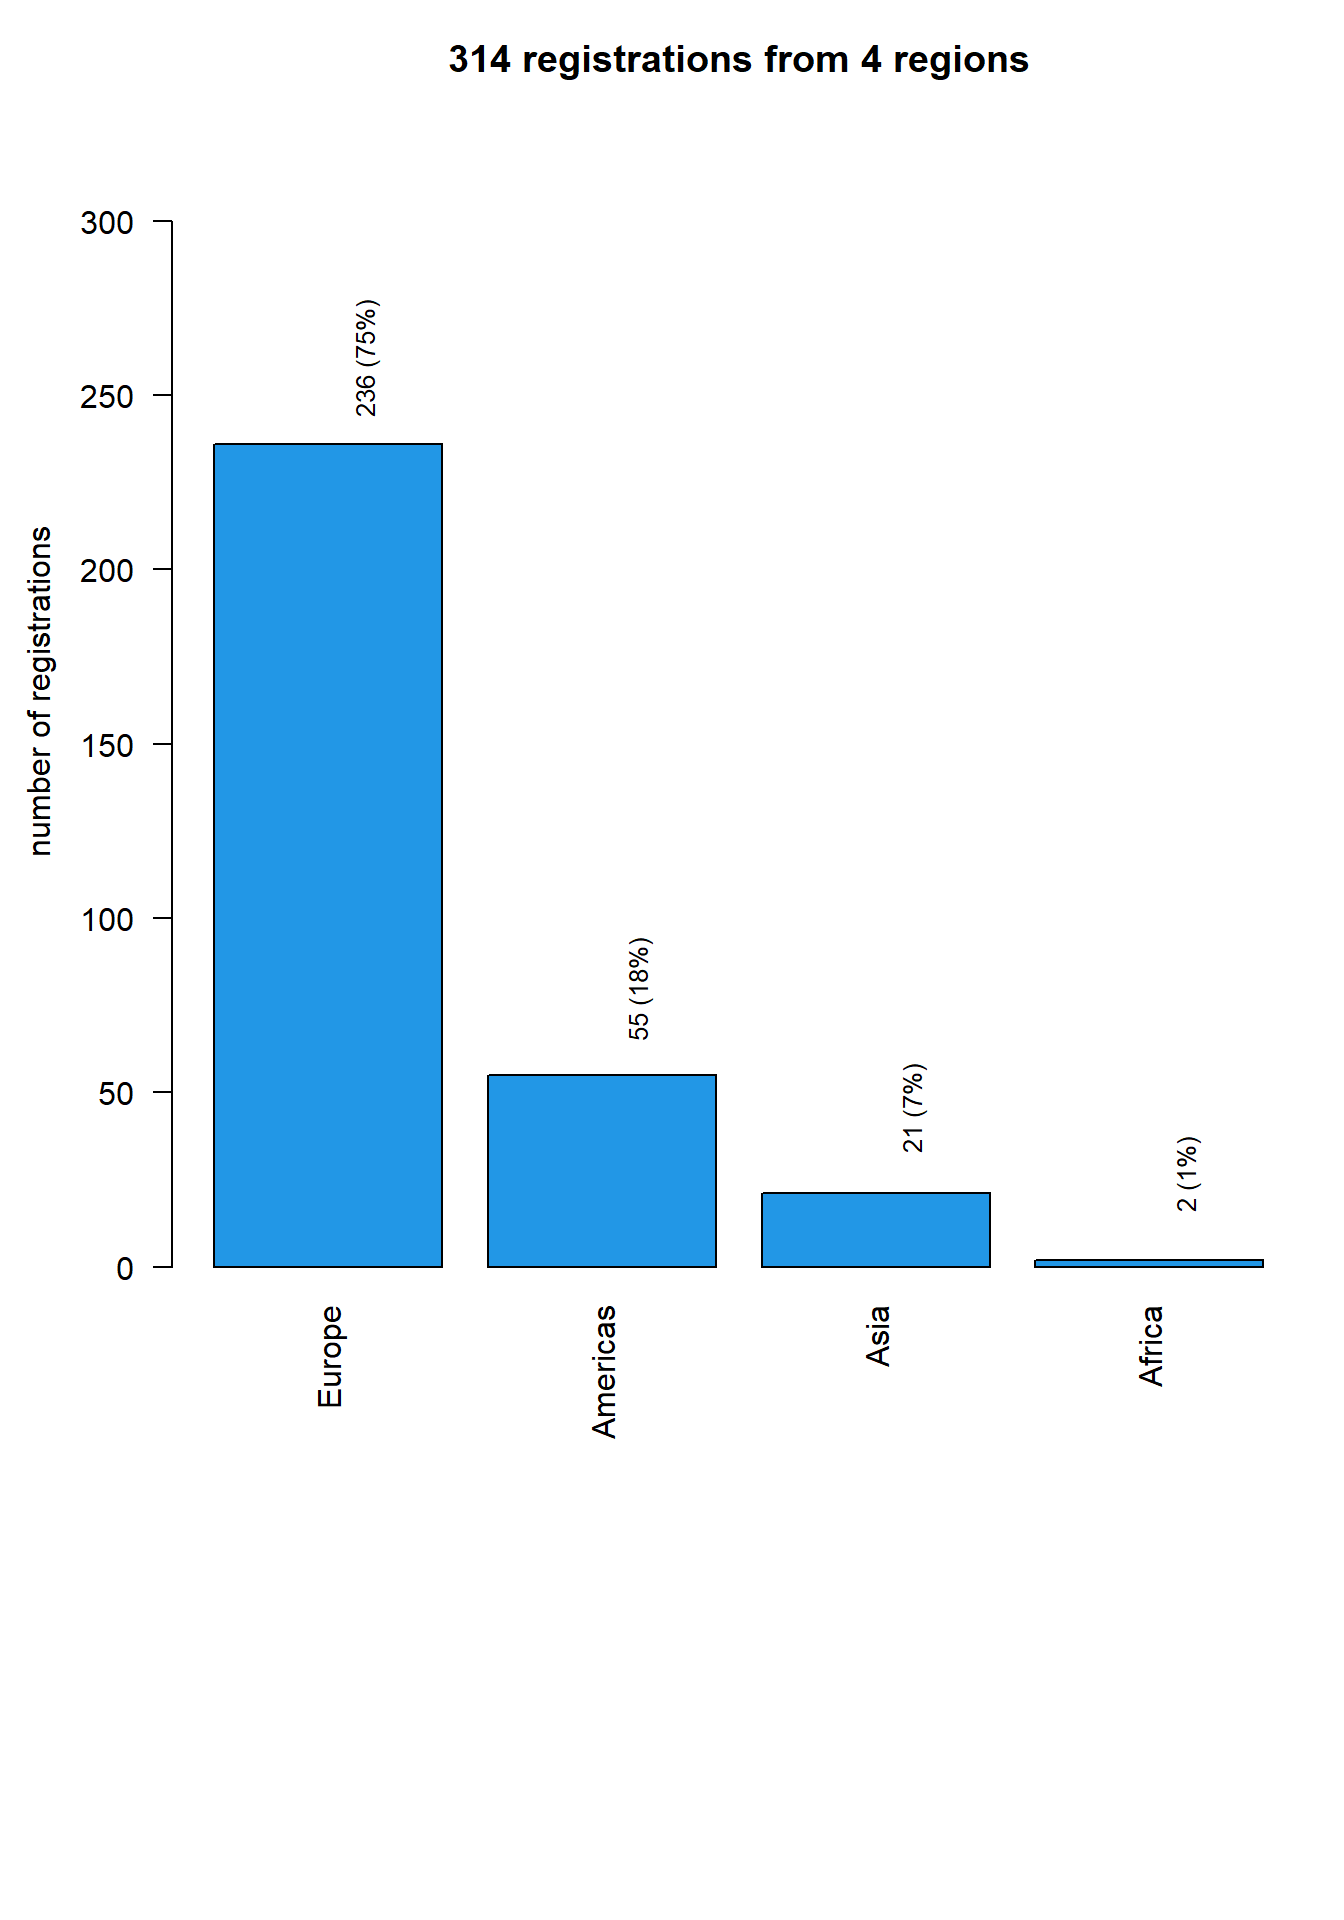
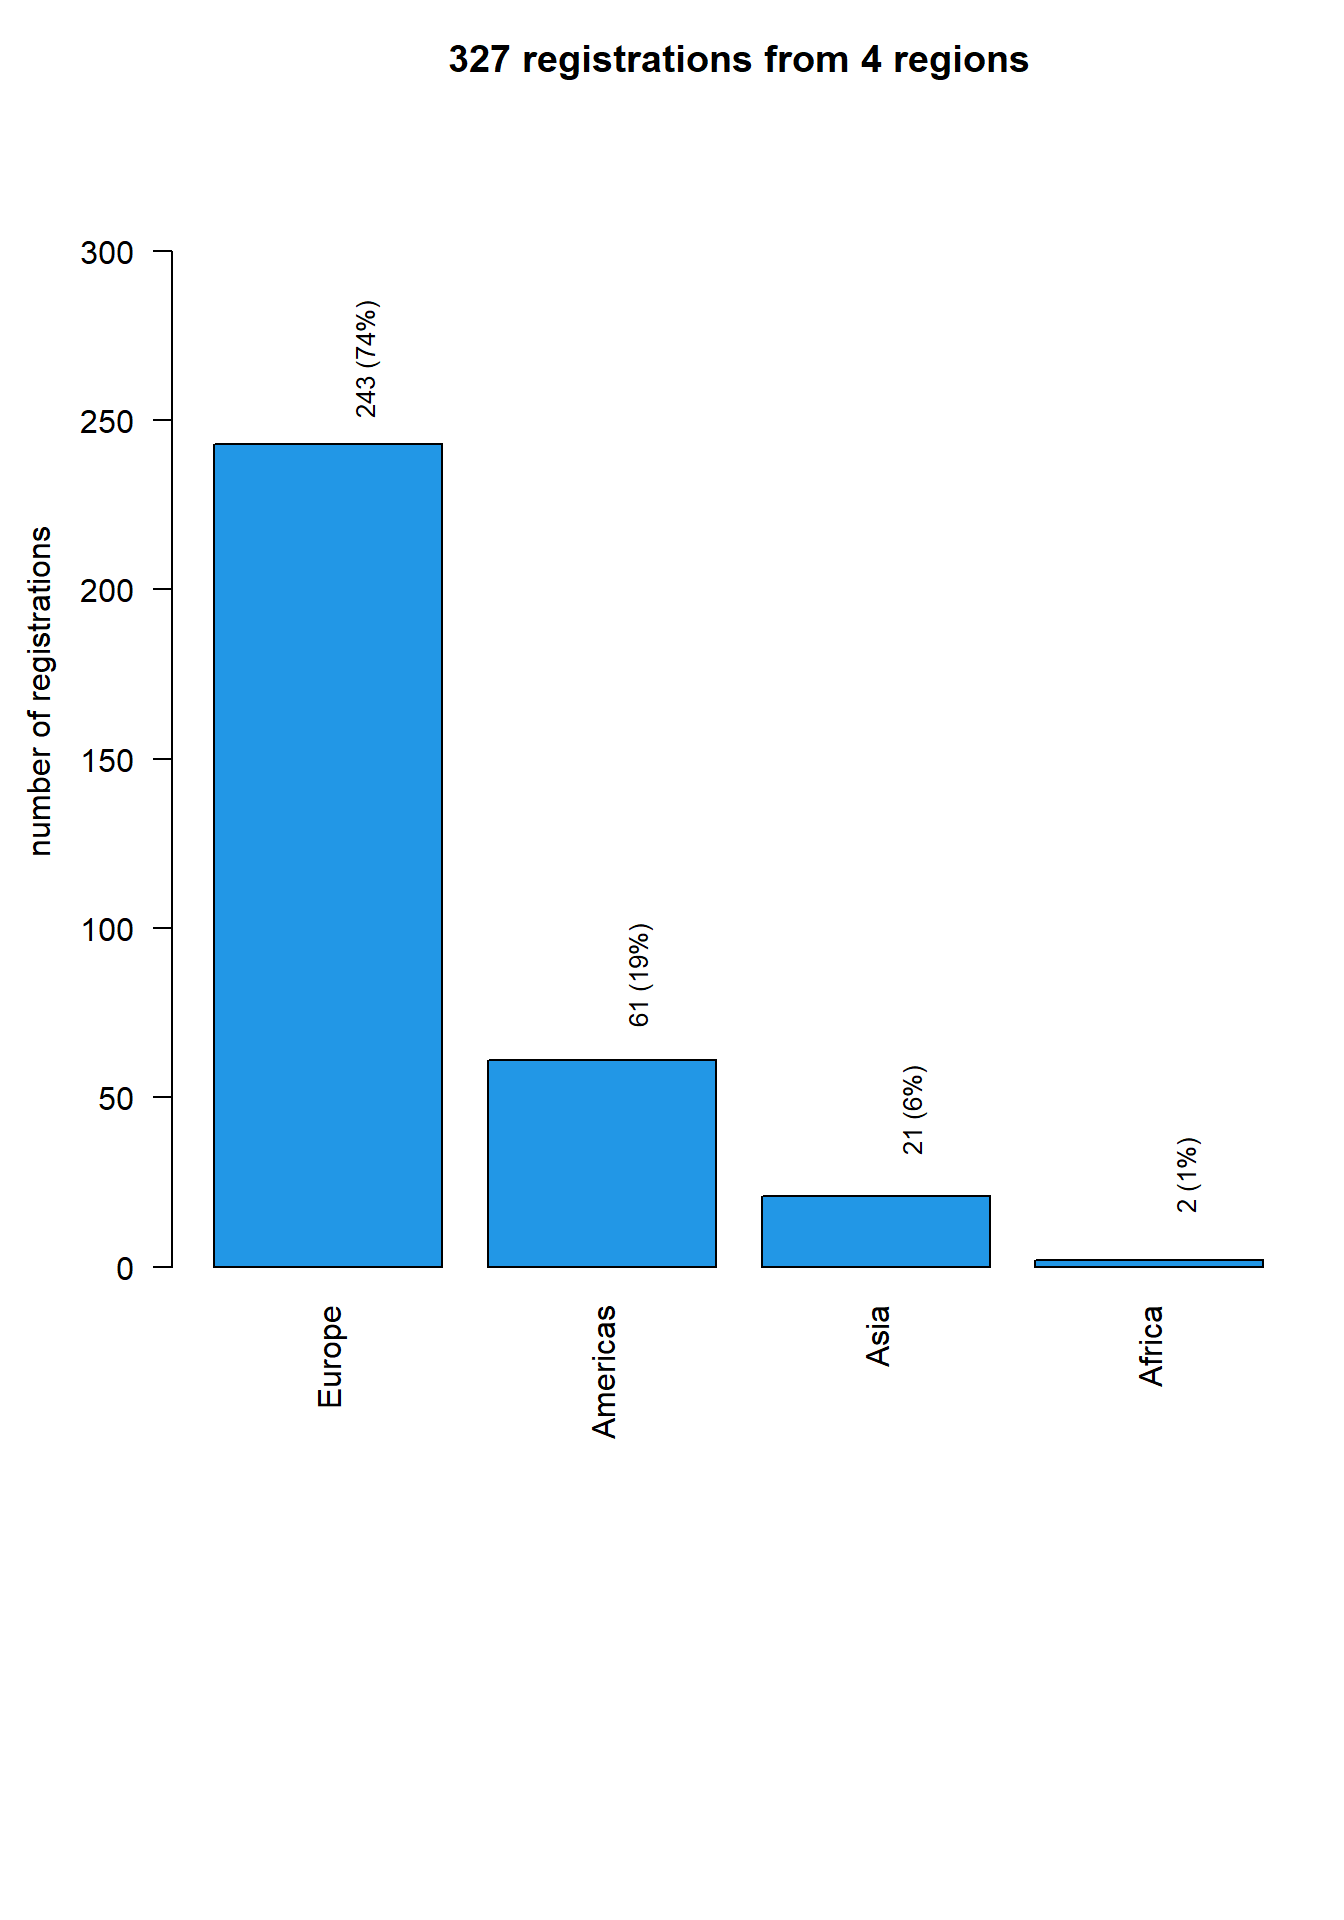
upate+

diff --git a/docs/upcoming/20250319/analysis_innovation_questions.html b/docs/upcoming/20250319/analysis_innovation_questions.html
@@ -205,7 +205,7 @@ ul.task-list li input[type="checkbox"] {
 
 <section id="data-status" class="level1">
 <h1>Data status</h1>
-<p>Data as of 2025-03-05 at 22:25:52.</p>
+<p>Data as of 2025-03-07 at 19:19:48.</p>
 </section>
 <section id="analysis-of-registrations" class="level1">
 <h1>Analysis of registrations</h1>
@@ -239,91 +239,96 @@ ul.task-list li input[type="checkbox"] {
 <td style="text-align: left;">Coming from core academia, how can one apply Bayesian statistics in oncological studies? What path one can follow to create statistical innovations for detection or diagnosis of cancer? What are the interesting milestones already achieved in this direction and what are the possible directions of work for the future?</td>
 </tr>
 <tr class="odd">
+<td style="text-align: left;">Christian</td>
+<td style="text-align: left;">Kuhl</td>
+<td style="text-align: left;">How to improve cooperation and motivate Clinicians to walk beside the standard way?</td>
+</tr>
+<tr class="even">
 <td style="text-align: left;">Divya</td>
 <td style="text-align: left;">Gunasekar</td>
 <td style="text-align: left;">At times when there is so much competition, how can we reduce the time to get a novel product to market sooner?</td>
 </tr>
-<tr class="even">
+<tr class="odd">
 <td style="text-align: left;">Emmanuel</td>
 <td style="text-align: left;">Zuber</td>
 <td style="text-align: left;">How to avoid the double trap of 1) falling in love with your innovation and 2) losing the passion for the adequate solution to the real problem ?</td>
 </tr>
-<tr class="odd">
+<tr class="even">
 <td style="text-align: left;">Federico</td>
 <td style="text-align: left;">Mattiello</td>
 <td style="text-align: left;">What are the catalysts that help bringing innovation to fruition?</td>
 </tr>
-<tr class="even">
+<tr class="odd">
 <td style="text-align: left;">Jacob</td>
 <td style="text-align: left;">Stærk-Østergaard</td>
 <td style="text-align: left;">Can we improve collaboration across industry and academia to push novel statistical methods into acceptance from both regulators and clinicians, and if so how?</td>
 </tr>
-<tr class="odd">
+<tr class="even">
 <td style="text-align: left;">Jenny</td>
 <td style="text-align: left;">Devenport</td>
 <td style="text-align: left;">The agenda looks very good and emphasizes getting clinicians / nonstatisticians excited. While indeed a formidable challenge in the route to change, we also experience headwinds from our own function–who perhaps struggle to separate seizing opportunities with debating enhancements. In other words, how can we do a better job as statisticians to show up as a united front so that our clinicians don’t see methods as simply a matter of opinion?</td>
 </tr>
-<tr class="even">
+<tr class="odd">
 <td style="text-align: left;">Jonas</td>
 <td style="text-align: left;">Lindeløv</td>
 <td style="text-align: left;">(1) Do you have examples of important innovations that did not reach impact? Can we draw learnings from those examples? (2) What is the effect size of following all the recommendations from this session? For example, is it an increase from 10% probability of success to 25%?</td>
 </tr>
-<tr class="odd">
+<tr class="even">
 <td style="text-align: left;">Juergen</td>
 <td style="text-align: left;">Scheuenpflug</td>
 <td style="text-align: left;">In which phase of drug development do you see the greatest need to innovate (e.g.&nbsp;FiH to PoC or PoC - MAA/ LCM? What are the most important barriers which prevent successful innovation and how to mitigate these?</td>
 </tr>
-<tr class="even">
+<tr class="odd">
 <td style="text-align: left;">Lada</td>
 <td style="text-align: left;">Mitchell</td>
 <td style="text-align: left;">1. Good statistical thinking, AI and maschine learning-what is a magical formula and long term vision? 2. How to inluence faster, eg bring new meaningful stats methodoly to applicatons and use?</td>
 </tr>
-<tr class="odd">
+<tr class="even">
 <td style="text-align: left;">Liliya</td>
 <td style="text-align: left;">Chamitava</td>
 <td style="text-align: left;">How can we measure the success or impact of a statistical innovation once it has been implemented into a practice?</td>
 </tr>
-<tr class="even">
+<tr class="odd">
 <td style="text-align: left;">Linard</td>
 <td style="text-align: left;">Hoessly</td>
 <td style="text-align: left;">How do you deal with the subjectivity on methodological questions in many statistical areas?</td>
 </tr>
-<tr class="odd">
+<tr class="even">
 <td style="text-align: left;">Nina</td>
 <td style="text-align: left;">Heiss</td>
 <td style="text-align: left;">Which policy challenge would you recommend focussing on.</td>
 </tr>
-<tr class="even">
+<tr class="odd">
 <td style="text-align: left;">Pernille</td>
 <td style="text-align: left;">Juul Jørgensen</td>
 <td style="text-align: left;">Q1.1: How to balance adoptations of new statistical methods with the need for fast developed clinical programmes? Q1.2: Are there sometimes you would advise to go with an “old” method instead of trying something “new” out? Q2: How much extra time do you estimate that it takes to implement a new method for a study design? Q3: Is there a regulatory risk (e.g.&nbsp;longer interactions or pushback?) when using a new statistical method?</td>
 </tr>
-<tr class="odd">
+<tr class="even">
 <td style="text-align: left;">Stefan</td>
 <td style="text-align: left;">Englert</td>
 <td style="text-align: left;">What measures do you take to quantify and measure impact? Which metrics are used?</td>
 </tr>
-<tr class="even">
+<tr class="odd">
 <td style="text-align: left;">Susan</td>
 <td style="text-align: left;">Edwards</td>
 <td style="text-align: left;">How do you know when a new innovation’s benefit is great enough to make up for its (likely) added complexity or at least the hurdle of its unfamiliarity?</td>
 </tr>
-<tr class="odd">
+<tr class="even">
 <td style="text-align: left;">Tu</td>
 <td style="text-align: left;">Xu</td>
 <td style="text-align: left;">The biologic innovation is of no doubt to be a must in industry environment. However, statistical innovation is often considered an optional or ‘nice-to-have’ as long as regulatory requirements are met. How could we raise the importance of statistical innovation to the business and make it as a necessary part of clinical development process?</td>
 </tr>
-<tr class="even">
+<tr class="odd">
 <td style="text-align: left;">Xiaoling</td>
 <td style="text-align: left;">Wu</td>
 <td style="text-align: left;">what is the one task statistician can do better than AI?</td>
 </tr>
-<tr class="odd">
+<tr class="even">
 <td style="text-align: left;">Xiaowei</td>
 <td style="text-align: left;">Ren</td>
 <td style="text-align: left;">Is there any application of Bayesian sample size augment in the single arm trial</td>
 </tr>
-<tr class="even">
+<tr class="odd">
 <td style="text-align: left;">Yanning</td>
 <td style="text-align: left;">Liu</td>
 <td style="text-align: left;">NA</td>

diff --git a/docs/talks/20191101/20191101_summary.html b/docs/talks/20191101/20191101_summary.html
@@ -7,7 +7,7 @@
 <meta name="viewport" content="width=device-width, initial-scale=1.0, user-scalable=yes">
 
 <meta name="author" content="Laurent Essioux, Dominik Heinzmann, Kaspar Rufibach, Marcel Wolbers">
-<meta name="dcterms.date" content="2025-03-05">
+<meta name="dcterms.date" content="2025-03-07">
 
 <title>Basel Biometrics Society - BBS seminar 1st November 2019: Predictive modelling, machine learning, and causality</title>
 <style>
@@ -206,7 +206,7 @@ ul.task-list li input[type="checkbox"] {
     <div>
     <div class="quarto-title-meta-heading">Published</div>
     <div class="quarto-title-meta-contents">
-      <p class="date">March 5, 2025</p>
+      <p class="date">March 7, 2025</p>
     </div>
   </div>
   

diff --git a/docs/upcoming/20250319/analysis_innovation.html b/docs/upcoming/20250319/analysis_innovation.html
@@ -211,7 +211,7 @@ ul.task-list li input[type="checkbox"] {
 
 <section id="data-status" class="level1">
 <h1>Data status</h1>
-<p>Data as of 2025-03-05 at 22:25:45.</p>
+<p>Data as of 2025-03-07 at 19:19:39.</p>
 </section>
 <section id="registrations-by-type-of-institution" class="level1">
 <h1>Registrations by type of institution</h1>
